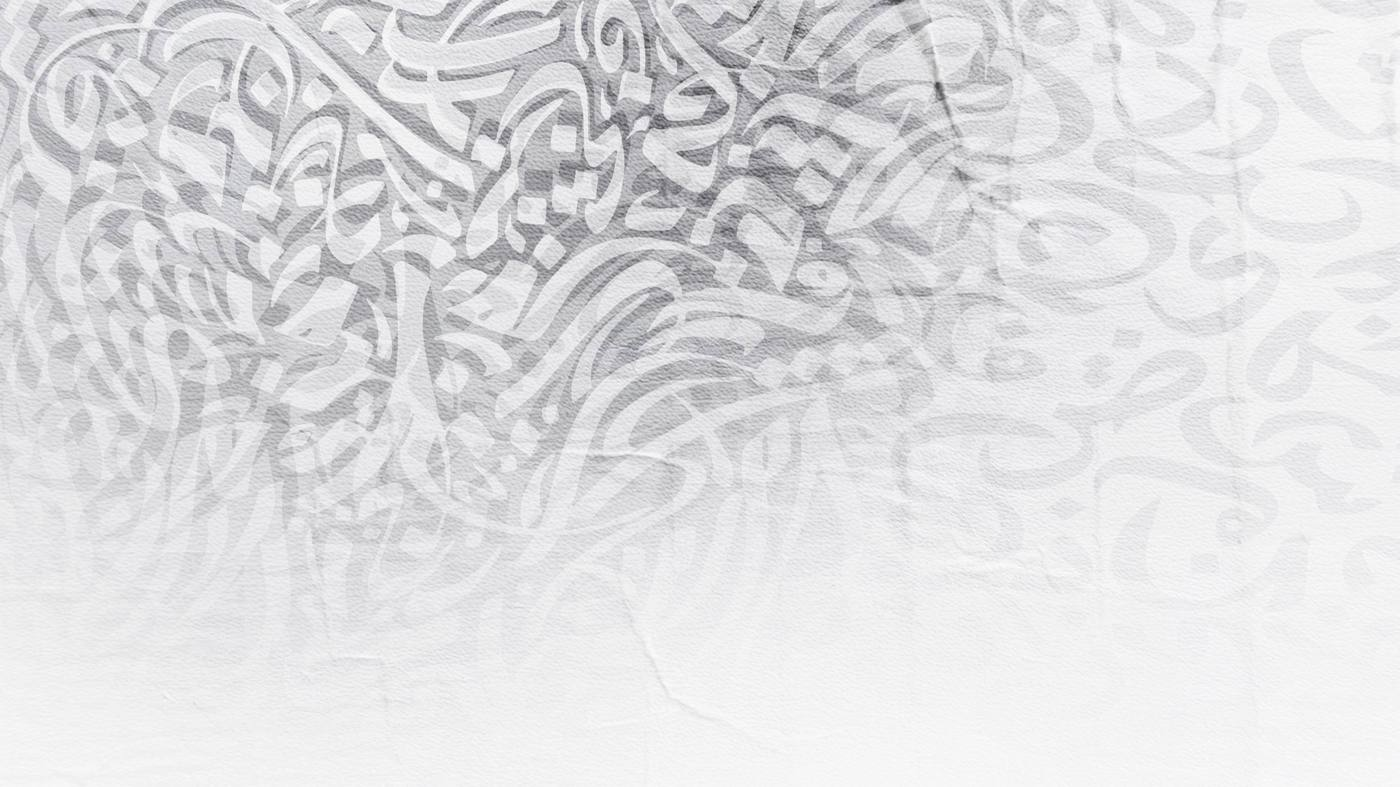
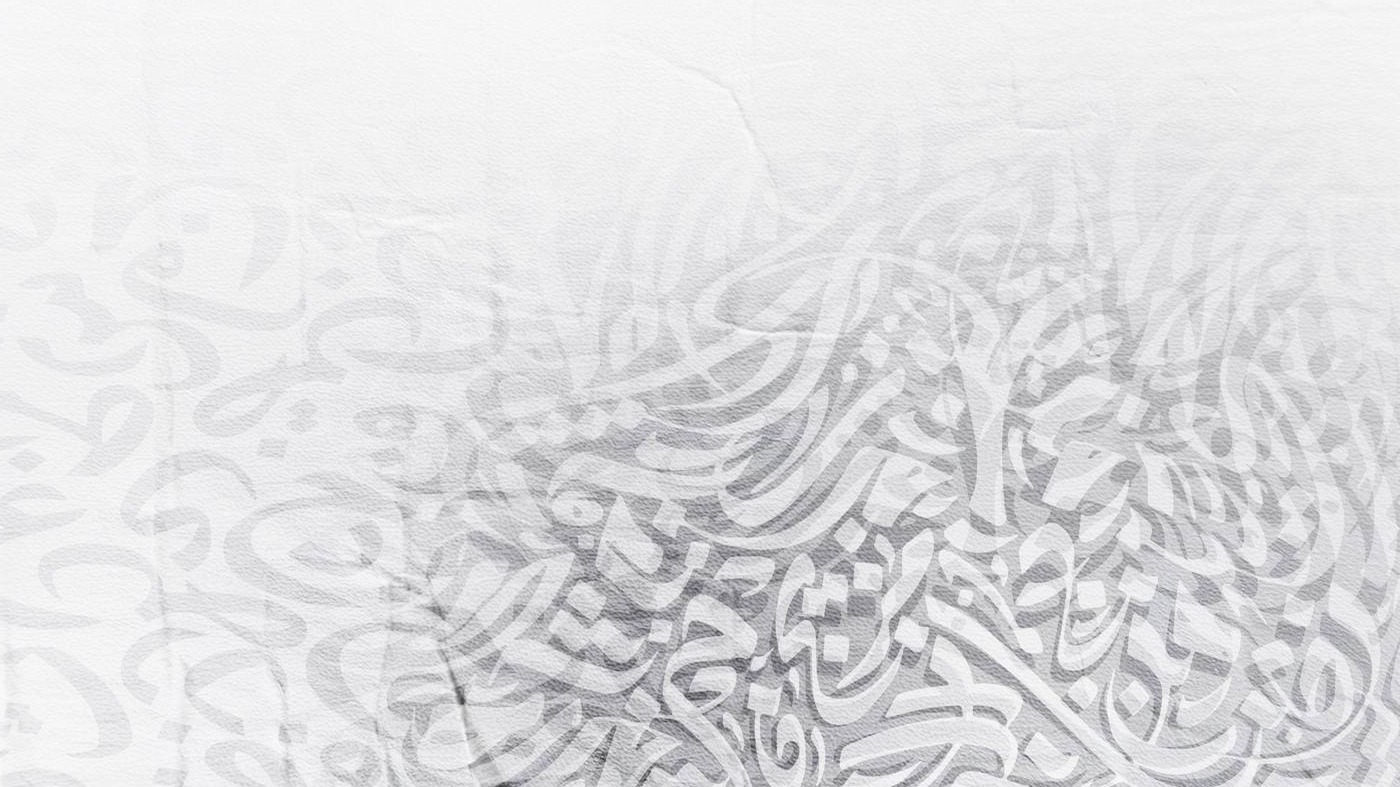
Rotate the background image 180 degrees
Claude-Session: https://claude.ai/code/session_01Q7iXSmjsfaRntbi5PTNcge

diff --git a/sw.js b/sw.js
@@ -1,5 +1,5 @@
 // Minimal service worker: lets the app shell open without a connection (data itself is cached by Firestore).
-const CACHE = "jamia-shell-v23";
+const CACHE = "jamia-shell-v24";
 const SHELL = ["./", "index.html", "app.js", "core.js", "pdf.js", "particulars.js", "sigdata.js", "bg.jpg", "ui.js", "firebase-config.js", "ui.js", "icon-192.png"];
 self.addEventListener("install", (e) => { e.waitUntil(caches.open(CACHE).then((c) => c.addAll(SHELL)).then(() => self.skipWaiting())); });
 self.addEventListener("activate", (e) => { e.waitUntil(caches.keys().then((ks) => Promise.all(ks.filter((k) => k !== CACHE).map((k) => caches.delete(k)))).then(() => self.clients.claim())); });
